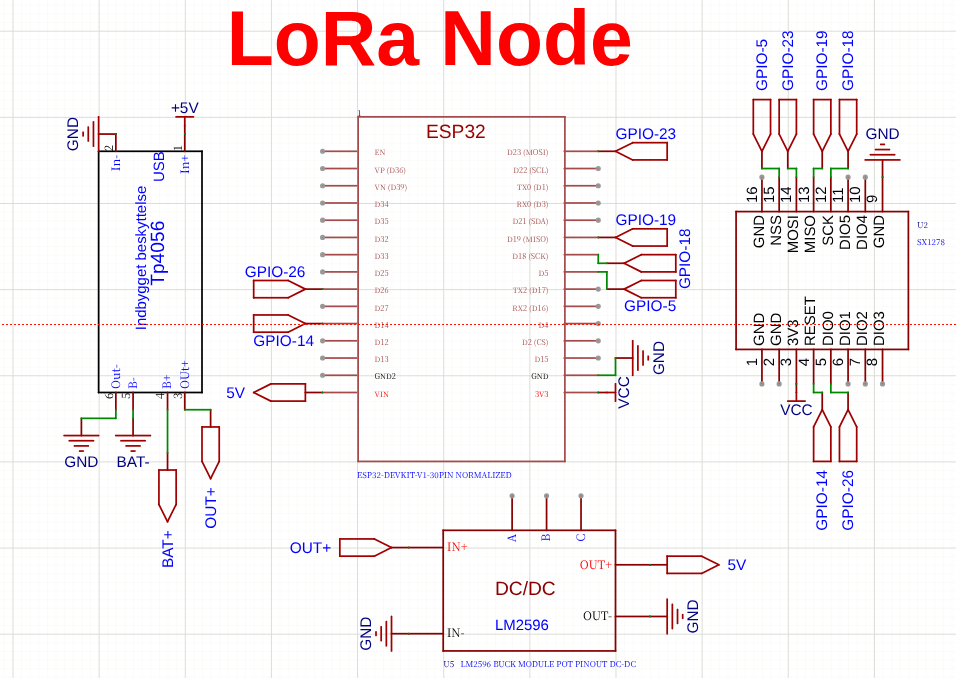
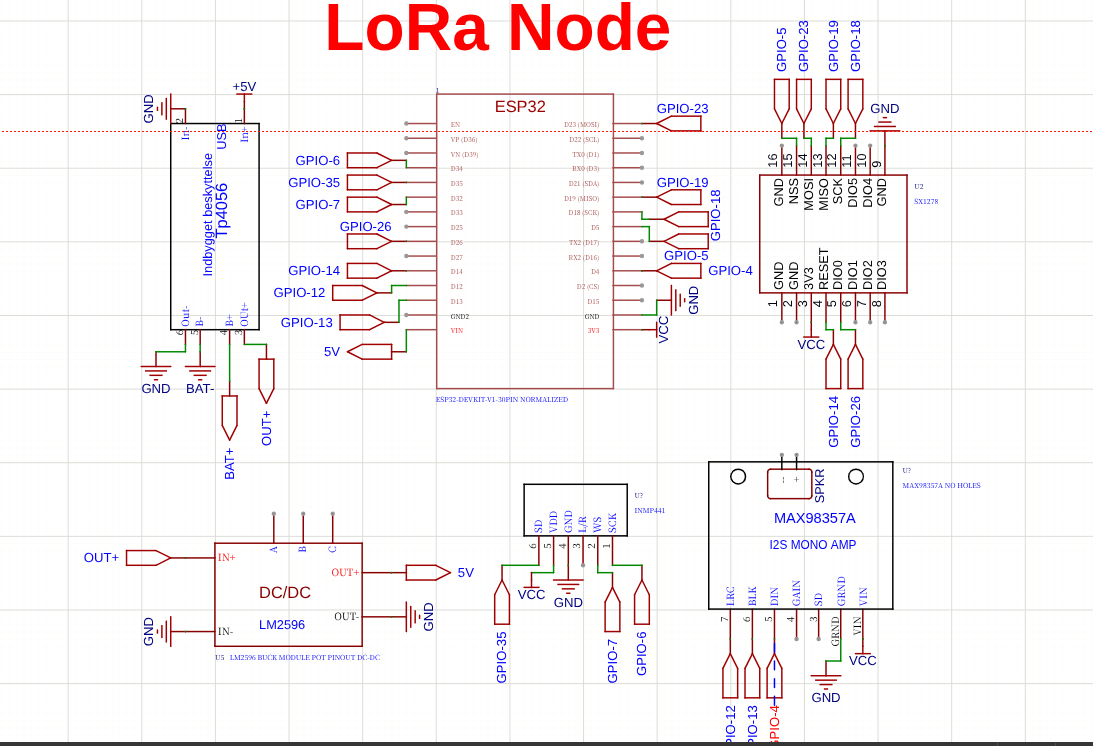
updated readme file

diff --git a/README.md b/README.md
@@ -23,7 +23,7 @@ Voice is push-to-talk (walkie-talkie style, ~2 s latency) because LoRa is half-d
 
 ## 2. Links
 
-- **GitHub repository:** `https://github.com/<your-username>/ruralreach-demo`
+- **GitHub repository:** `https://github.com/ramadhaniwanjenja/RuralREACH/blob/main/README.md`
 - **Video demo (5–10 min):** `<paste your YouTube unlisted / Drive link here>`
 
 ---
@@ -132,7 +132,7 @@ Field deployment is a single portable device moved between confirmed dead-zone l
 | Gateway SMS forwarding | ✅ Implemented (Python) |
 | Gateway voice routing | ⏳ In progress (Python) |
 | Android companion app | ⏳ Mockups done, coding ongoing |
-| EasyEDA schematics | ✅ Node + Gateway complete |
+| schematics | ✅ Node + Gateway complete |
 
 ---
 